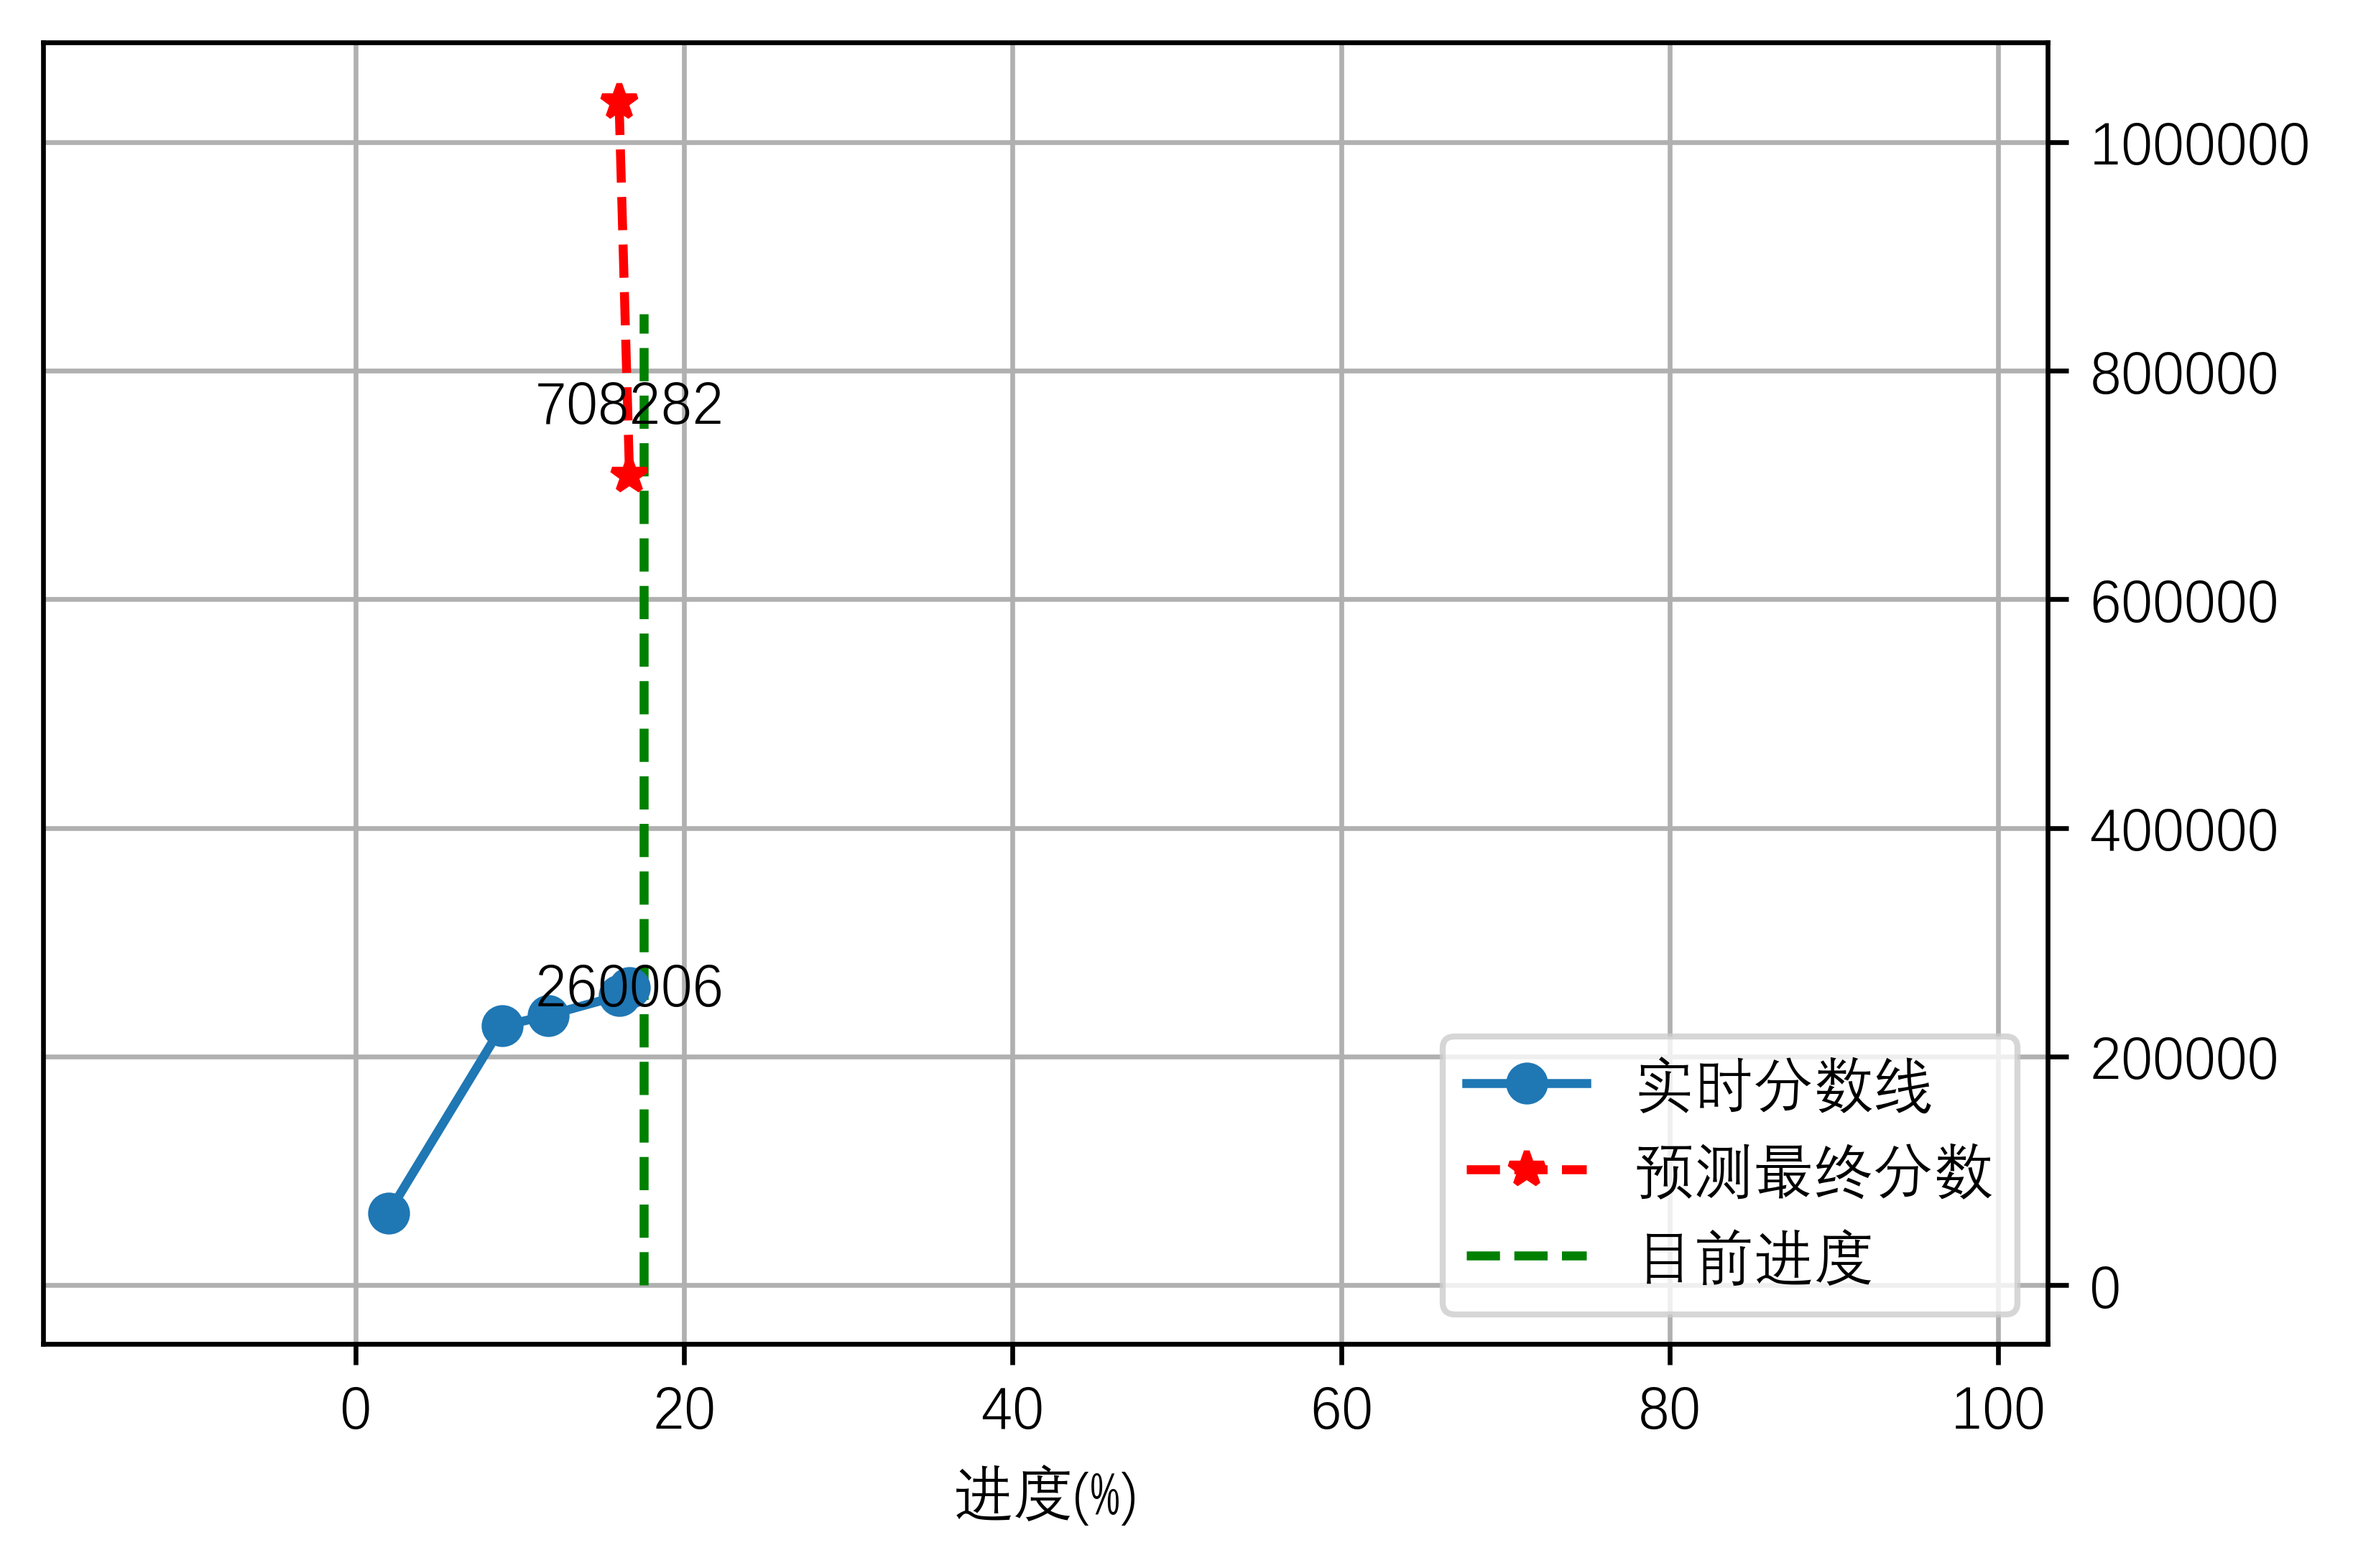
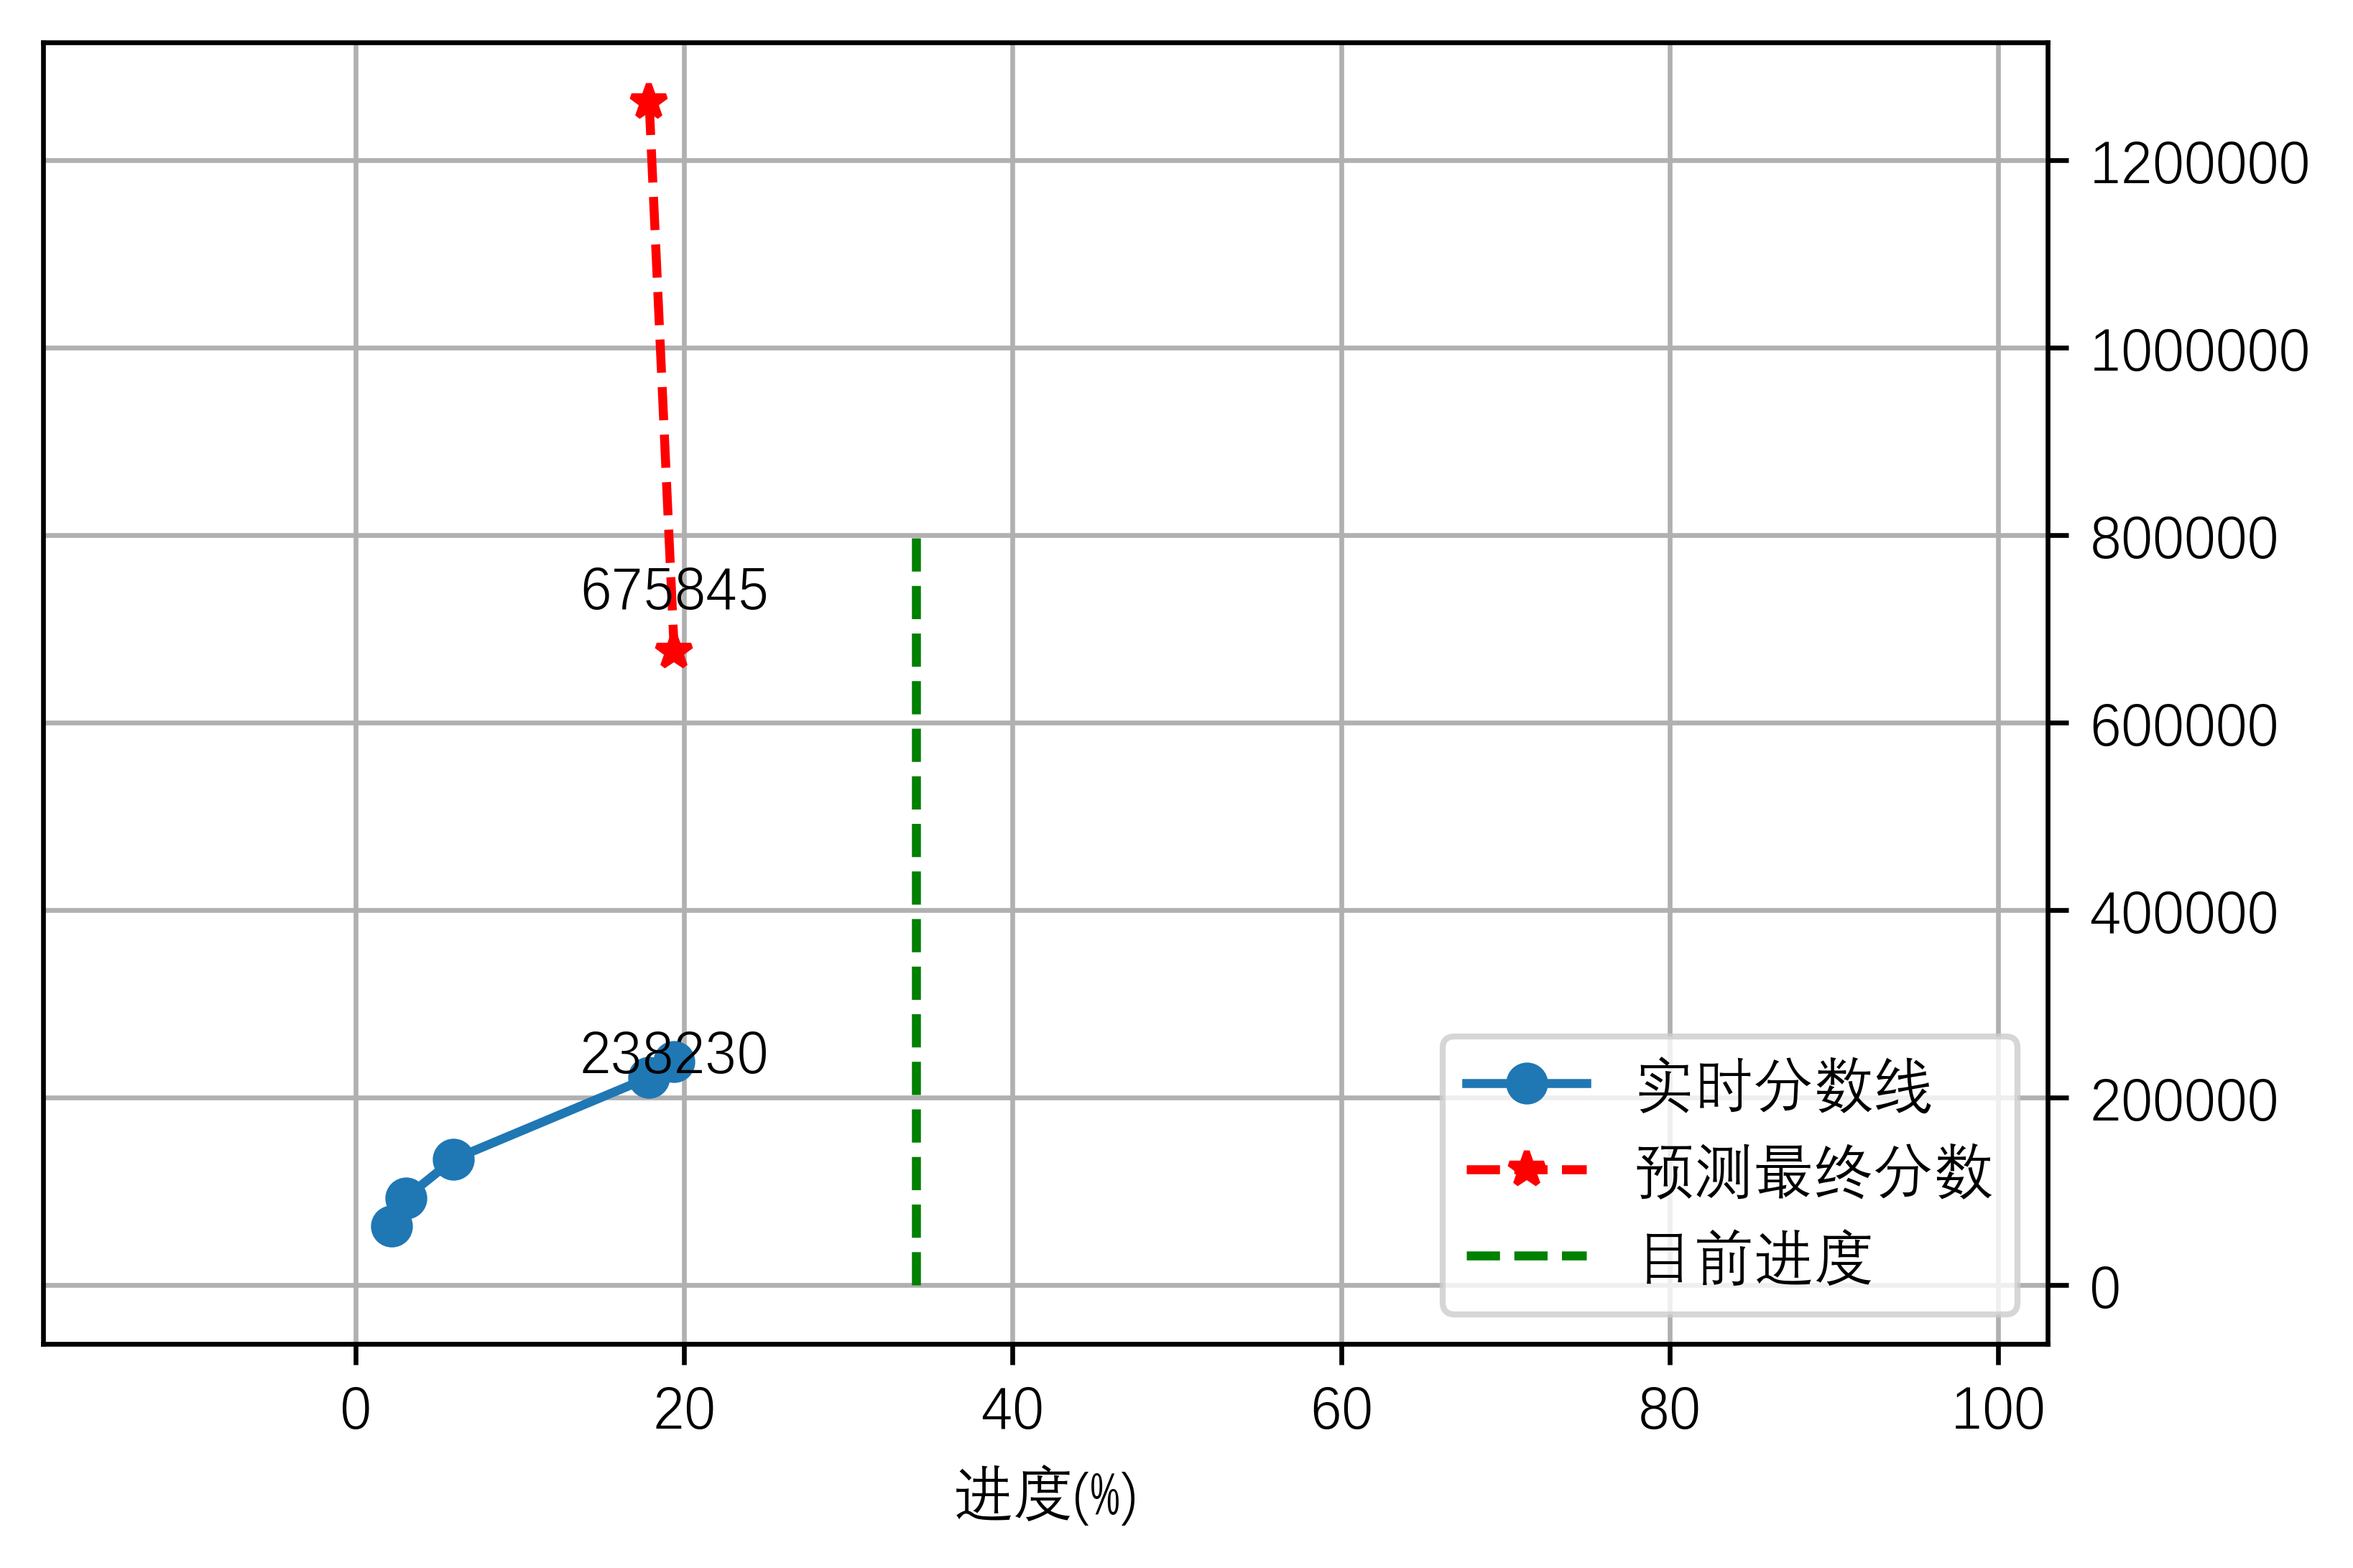
10 8 update

diff --git a/GraphDraw.py b/GraphDraw.py
@@ -141,8 +141,10 @@ def main(eventNumber,rankType,areacode,basePath,JsonPath):
         
         chart3= Image.open('resources/ring.png')
         region3 = chart3
+        region3 = region3.resize((1449,1449))
         region3=region3.crop((180,180,1270,1270))
         box3=(30,2850,1120,3940)
+
         im.paste(region3,box3,region3)
         im=im.convert('RGBA')
         txt=Image.new('RGBA', im.size, (0,0,0,0))
@@ -165,18 +167,20 @@ def main(eventNumber,rankType,areacode,basePath,JsonPath):
         d.text((1280,3750),nowTime,font=fnt3, fill=(0,0,0,255))
         
         out=Image.alpha_composite(im,txt)
-        time.sleep(0.1)
         out=out.resize((1750,2500))
         filename=basePath+rankList2[rankType]+'.png'
         out.save(filename)
-  
+
+            
     def noptHandle(eventName,basePath,rankType=4):
         im = Image.open("resources/noPt70.png")
         txt=Image.new('RGBA', im.size, (0,0,0,0))
         fnt=ImageFont.truetype("resources/HYZhengYuan-55W.ttf", 50)
+        fnt2=ImageFont.truetype("resources/HYZhengYuan-55W.ttf", 20)
         titlex=400-(len(eventName)+2)/2*50
         d=ImageDraw.Draw(txt) 
         d.text((titlex,100),'《'+eventName+'》',font=fnt, fill=(0,0,0,255))
+        d.text((450,500),'制图时间：'+timestamp_full(time.time()),font=fnt2, fill=(0,0,0,255))
         out=Image.alpha_composite(im,txt)
         if rankType==4:
             for filename0 in ['e100.png','e1k.png','e2k.png']:

diff --git a/DataRef.py b/DataRef.py
@@ -68,7 +68,7 @@ def GetDataStorage(dirs,AreaCode=3,PredNow=True,Benum=0):
             enum=int(Dict['rS'][1:])
             for RankType in range(0,3):
                 try:
-                    __Main__RunPred(dirs,enum,RankType,AreaCode,6,1)
+                    __Main__RunPred(dirs,enum,RankType,AreaCode,3,1)
                     #this is a predict-ivity reference, Which is Encoded in this frame of function.
                 except:
                     print("ON Main Func,",enum,"->",RankType,"'s Pred is Fail")
@@ -78,7 +78,7 @@ def GetDataStorage(dirs,AreaCode=3,PredNow=True,Benum=0):
     else:
         for RankType in range(0,3):
             try:
-                __Main__RunPred(dirs,enum,RankType,AreaCode,6,1)
+                __Main__RunPred(dirs,enum,RankType,AreaCode,3,1)
                 #this is a predict-ivity reference, Which is Encoded in this frame of function.
             except:
                 print("ON Main Func,",enum,"->",RankType,"'s Pred is Fail")
